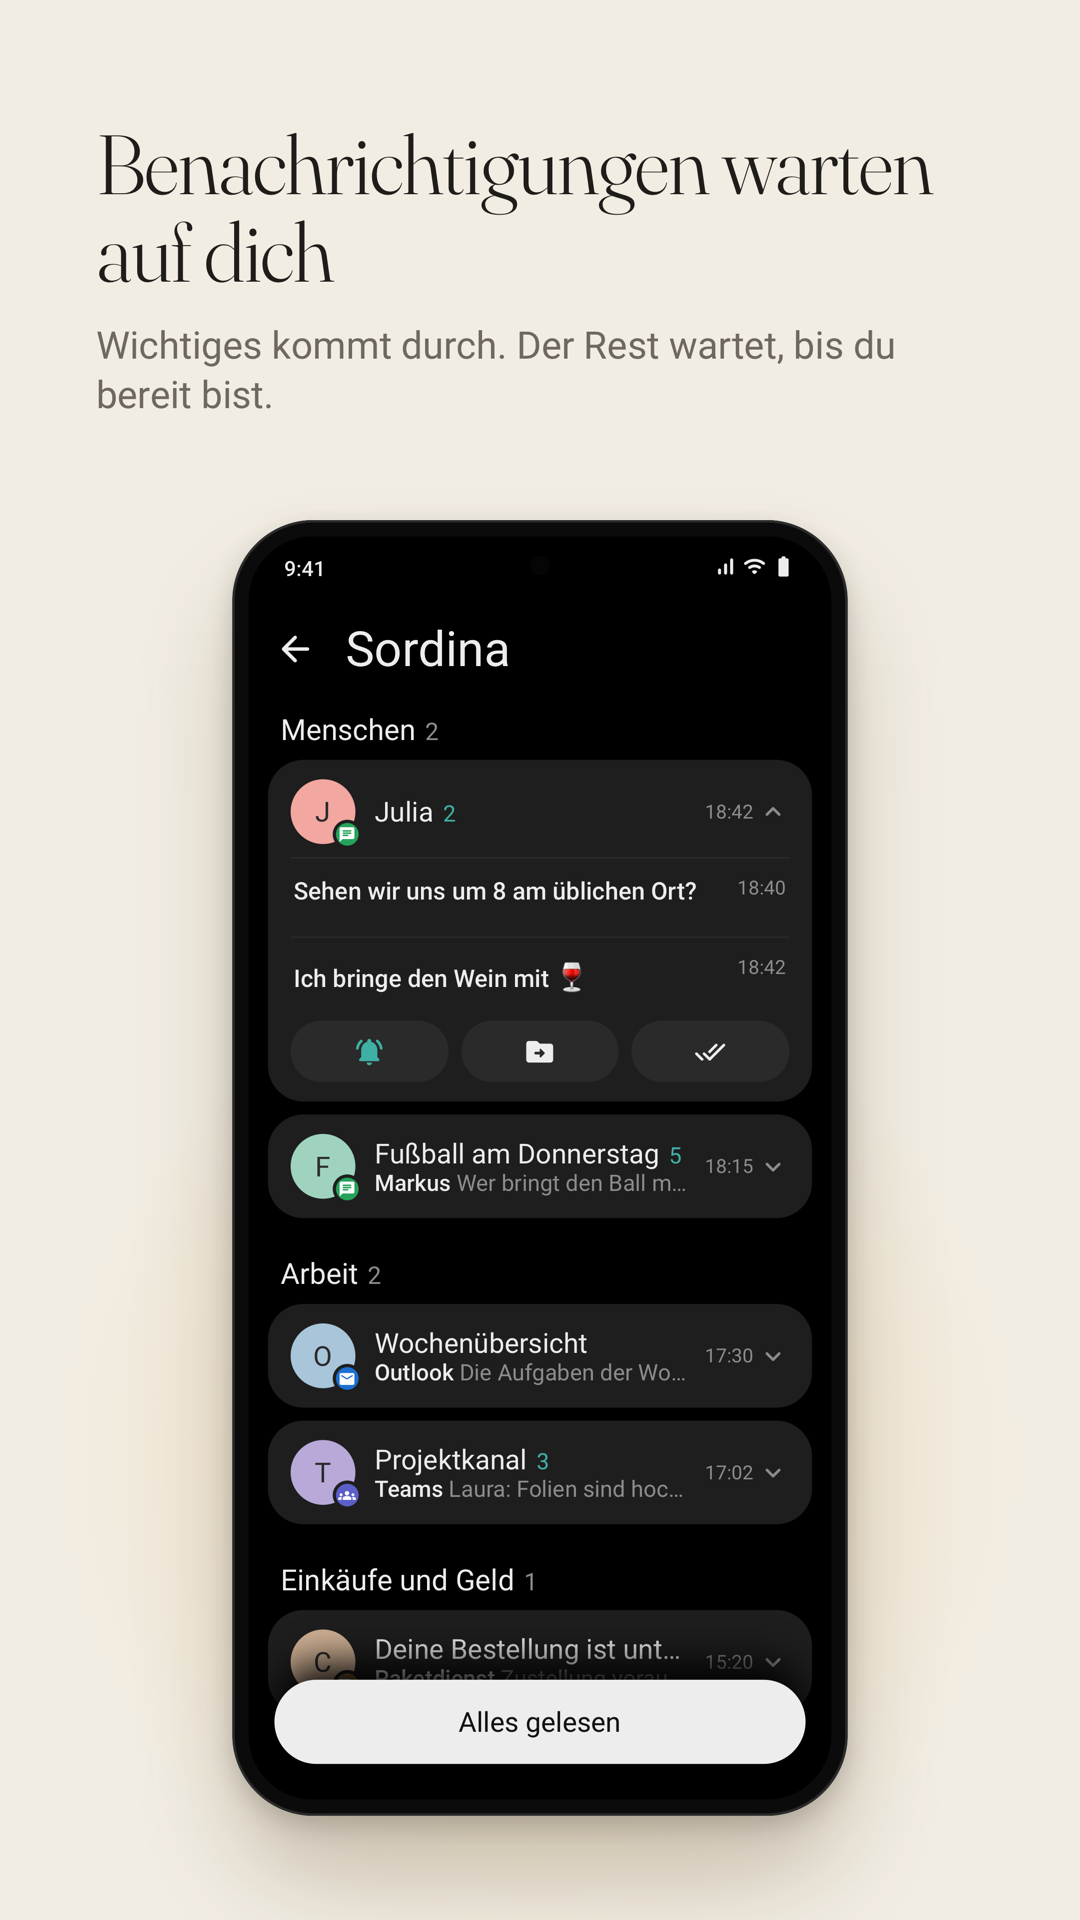
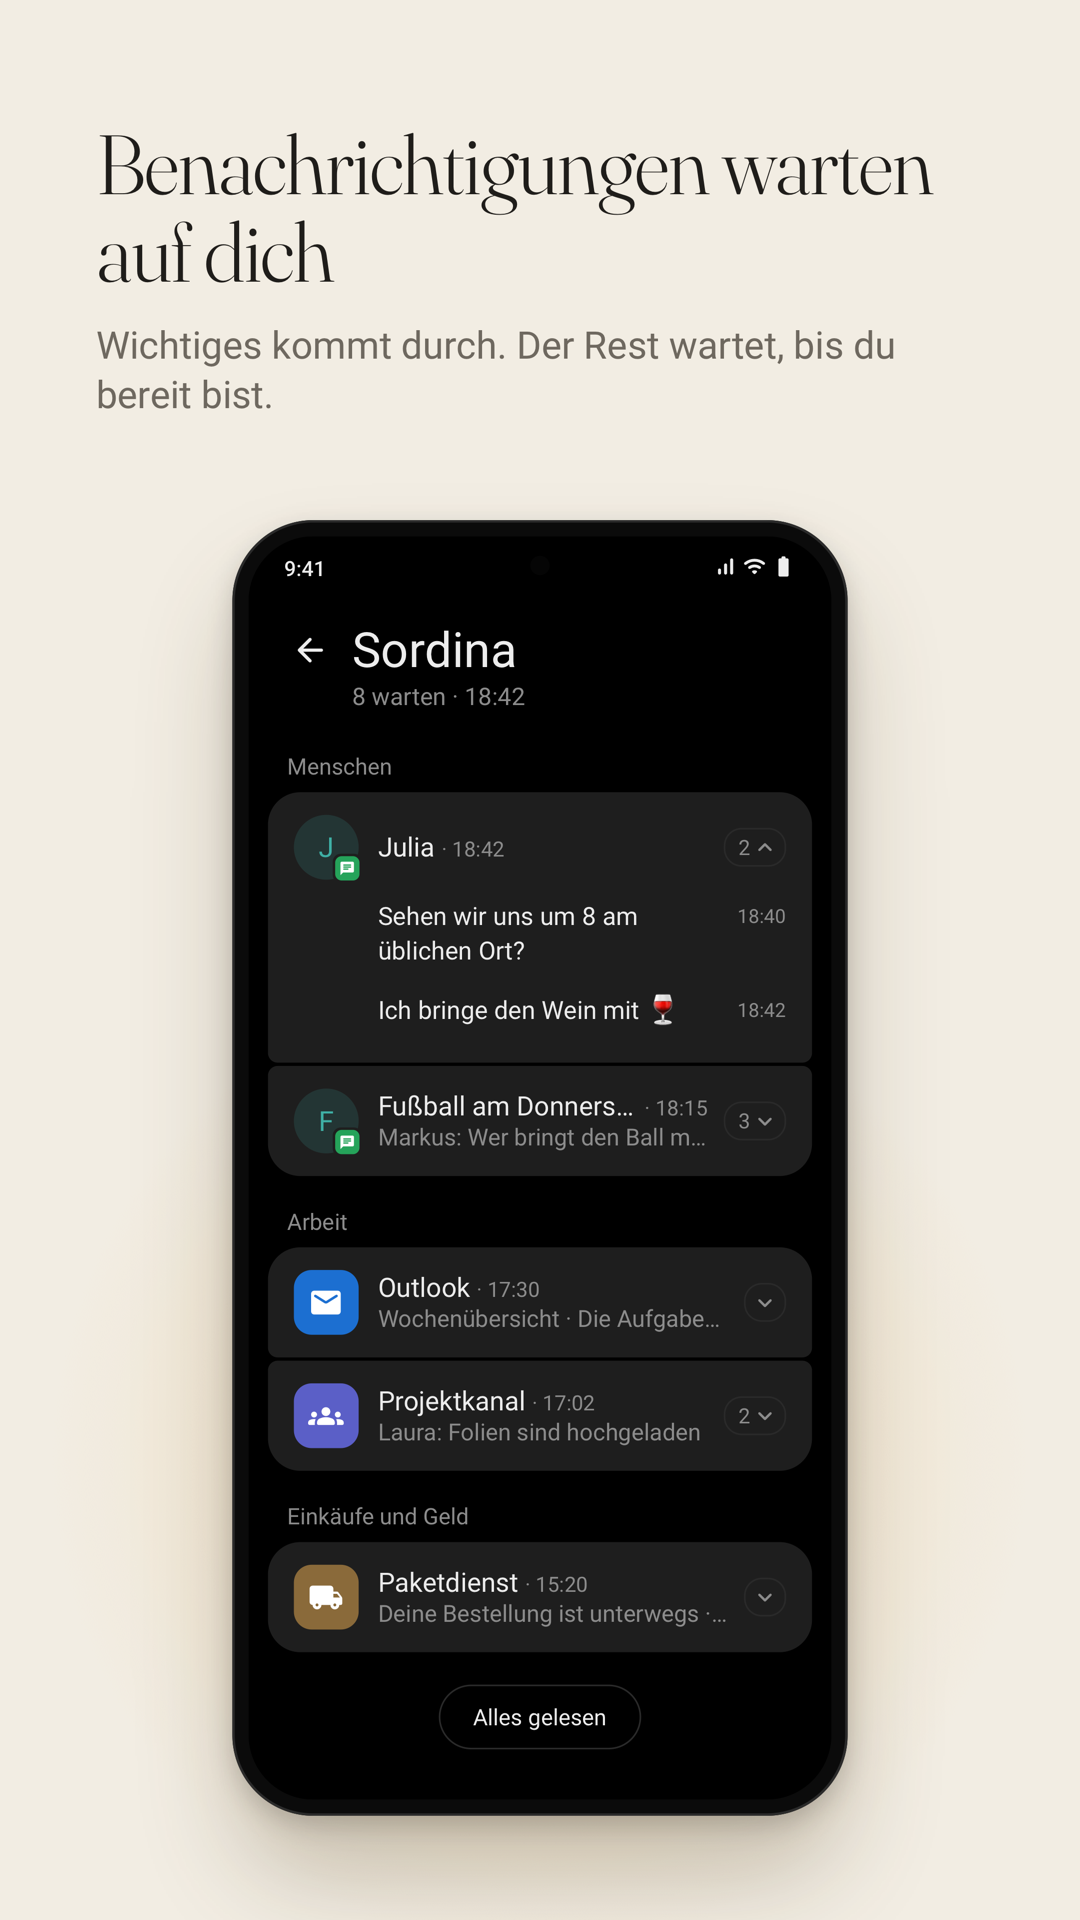
Pagina Sordina negli screenshot come nell'app; README senza la parte sulla firma
- Screenshot 2 (tutte le lingue): testata "Sordina" con "N in attesa · ora",
  categorie piccole, gruppi impilati e chiusi con il chip del numero,
  iniziale con l'icona dell'app, "Tutto letto" col bordo
- README: tolta la sezione sulla chiave di caricamento e la pubblicazione

Changed region(s): [[0.2444, 0.3125, 0.7639, 0.9375], [0.6722, 0.5, 0.7333, 0.5312], [0.5806, 0.5, 0.6417, 0.5312]]

diff --git a/store/src/store.html b/store/src/store.html
@@ -97,6 +97,35 @@
   .acts { display: flex; gap: 8px; margin-top: 4px; }
   .acts div { flex: 1; height: 38px; border-radius: 19px; background: var(--line); display: flex; align-items: center; justify-content: center; }
   .acts .mi { font-size: 20px; }
+  /* La pagina Sordina com'è nell'app: testata grande, categorie piccole, gruppi impilati e chiusi, il chip col numero */
+  .sphead { display: flex; align-items: flex-start; padding: 14px 16px 8px; }
+  .sphead .back { width: 44px; height: 44px; display: flex; align-items: center; justify-content: center; margin-right: 4px; }
+  .sphead .back .mi { font-size: 24px; }
+  .sphead h2 { font-size: 30px; line-height: 36px; font-weight: 400; margin: 4px 0 0; }
+  .sphead p { font-size: 15px; color: var(--usoft); margin: 2px 0 0; }
+  .spsec { font-size: 14px; color: var(--usoft); padding: 18px 24px 8px; }
+  .spg { margin: 0 12px 2px; background: var(--card); border-radius: 6px; padding: 14px 16px; }
+  .spg.top { border-top-left-radius: 20px; border-top-right-radius: 20px; }
+  .spg.bot { border-bottom-left-radius: 20px; border-bottom-right-radius: 20px; }
+  .sprow { display: flex; align-items: center; }
+  .spav { width: 40px; height: 40px; border-radius: 20px; flex: none; position: relative; display: flex; align-items: center; justify-content: center; font-size: 17px;
+          background: color-mix(in srgb, var(--uacc) 16%, transparent); color: var(--uacc); }
+  .spav.app { border-radius: 11px; color: #fff; }
+  .spav.app .mi { font-size: 22px; }
+  .spav small { position: absolute; right: -2px; bottom: -2px; width: 18px; height: 18px; border-radius: 5px; background: var(--card); padding: 1.5px; box-sizing: border-box; }
+  .spav small span { display: flex; width: 100%; height: 100%; border-radius: 4px; align-items: center; justify-content: center; }
+  .spav small .mi { font-size: 10px; color: #fff; }
+  .spcol { flex: 1; min-width: 0; margin-left: 12px; }
+  .spt { font-size: 16.5px; display: flex; align-items: baseline; white-space: nowrap; }
+  .spt span { overflow: hidden; text-overflow: ellipsis; min-width: 0; }
+  .spt i { font-style: normal; font-size: 13px; color: var(--usoft); flex: none; margin-left: 4px; }
+  .spp { font-size: 14.5px; color: var(--usoft); white-space: nowrap; overflow: hidden; text-overflow: ellipsis; margin-top: 1px; }
+  .spchip { margin-left: 10px; border: 1px solid var(--line); border-radius: 11px; padding: 2px 3px 2px 8px; display: flex; align-items: center; color: var(--usoft); font-size: 13px; }
+  .spchip.one { padding-left: 3px; }
+  .spchip .mi { font-size: 18px; }
+  .spmsg { padding: 8px 0 8px 52px; display: flex; font-size: 15.5px; line-height: 21px; }
+  .spmsg i { margin-left: auto; padding-left: 10px; font-style: normal; font-size: 12px; color: var(--usoft); }
+  .spall { margin: 18px auto 0; height: 40px; border-radius: 20px; border: 1px solid var(--line); padding: 0 20px; display: flex; align-items: center; justify-content: center; font-size: 14px; width: max-content; }
   .readall { position: absolute; left: 16px; right: 16px; bottom: 22px; height: 52px; border-radius: 26px; background: #EDEDED; color: #121212;
              display: flex; align-items: center; justify-content: center; font-size: 17px; box-shadow: 0 -10px 30px #000; }
 
@@ -177,6 +206,7 @@
 <script>
 const T = {
   it: {
+    waiting: '8 in attesa',
     day: 'Lunedì', date: '16 novembre', weather: '8° sereno', today: 'Oggi', tomorrow: 'Domani',
     ev1: 'Riunione di progetto', ev2: 'Pranzo con Giulia', ev3: 'Dentista',
     search: 'Cosa ti serve?', inMin: 'Tra 5 min', calendar: 'Calendario',
@@ -202,6 +232,7 @@ const T = {
     fSay: 'Niente di urgente fino alle&nbsp;13', fSmall: 'Sordina', fTag: 'Il telefono che non ti interrompe.',
   },
   en: {
+    waiting: '8 waiting',
     day: 'Monday', date: 'November 16', weather: '46° clear', today: 'Today', tomorrow: 'Tomorrow',
     ev1: 'Project meeting', ev2: 'Lunch with Julia', ev3: 'Dentist',
     search: 'What do you need to do?', inMin: 'In 5 min', calendar: 'Calendar',
@@ -227,6 +258,7 @@ const T = {
     fSay: 'Nothing urgent until 1&nbsp;PM', fSmall: 'Sordina', fTag: "The phone that doesn't interrupt you.",
   },
   es: {
+    waiting: '8 en espera',
     day: 'Lunes', date: '16 de noviembre', weather: '8° despejado', today: 'Hoy', tomorrow: 'Mañana',
     ev1: 'Reunión de proyecto', ev2: 'Comida con Julia', ev3: 'Dentista',
     search: '¿Qué necesitas?', inMin: 'En 5 min', calendar: 'Calendario',
@@ -252,6 +284,7 @@ const T = {
     fSay: 'Nada urgente hasta las&nbsp;13', fSmall: 'Sordina', fTag: 'El móvil que no te interrumpe.',
   },
   fr: {
+    waiting: '8 en attente',
     day: 'Lundi', date: '16 novembre', weather: '8° dégagé', today: "Aujourd'hui", tomorrow: 'Demain',
     ev1: 'Réunion de projet', ev2: 'Déjeuner avec Julie', ev3: 'Dentiste',
     search: "De quoi avez-vous besoin ?", inMin: 'Dans 5 min', calendar: 'Agenda',
@@ -277,6 +310,7 @@ const T = {
     fSay: "Rien d'urgent avant&nbsp;13&nbsp;h", fSmall: 'Sordina', fTag: 'Le téléphone qui ne vous interrompt pas.',
   },
   de: {
+    waiting: '8 warten',
     day: 'Montag', date: '16. November', weather: '8° klar', today: 'Heute', tomorrow: 'Morgen',
     ev1: 'Projektbesprechung', ev2: 'Mittagessen mit Julia', ev3: 'Zahnarzt',
     search: 'Was brauchst du?', inMin: 'In 5 Min.', calendar: 'Kalender',
@@ -302,6 +336,7 @@ const T = {
     fSay: 'Nichts Dringendes bis 13&nbsp;Uhr', fSmall: 'Sordina', fTag: 'Das Handy, das dich nicht unterbricht.',
   },
   pt: {
+    waiting: '8 à espera',
     day: 'Segunda-feira', date: '16 de novembro', weather: '8° céu limpo', today: 'Hoje', tomorrow: 'Amanhã',
     ev1: 'Reunião do projeto', ev2: 'Almoço com a Júlia', ev3: 'Dentista',
     search: 'Do que você precisa?', inMin: 'Em 5 min', calendar: 'Agenda',
@@ -376,24 +411,25 @@ function shot(lang, n) {
       <div class="zone">${mascot(3)}<div class="bubble"><div class="col">${sig('#1C6FD1', 'event', t.calendar + ' · 1/3')}<div class="ttl">${t.ev1}</div><div class="sub">${t.inMin}</div></div>
       <div class="round">${mi('videocam')}</div></div></div>`);
   } else if (n === 2) {
-    const blk = (init, col, appCol, appIc, title, cnt, who, prev, time) => `<div class="block"><div class="brow">
-      <div class="av" style="background:${col}">${init}<small style="background:${appCol}">${mi(appIc)}</small></div>
-      <div class="bcol"><div class="bt">${title}${cnt ? `<b>${cnt}</b>` : ''}</div><div class="bp">${who ? `<b>${who}</b> ` : ''}${prev}</div></div>
-      <span class="btime">${time}</span>${mi('keyboard_arrow_down', 'font-size:20px;color:var(--usoft);margin-left:2px')}</div></div>`;
-    inner = phone('dark', `<div class="pagehead">${mi('arrow_back')}${t.sordina}</div>
-      <div class="sec">${t.people}<span>2</span></div>
-      <div class="block"><div class="brow"><div class="av" style="background:${FACE[3]}">${t.p1[0]}<small style="background:#25A35A">${mi('chat')}</small></div>
-        <div class="bcol"><div class="bt">${t.p1}<b>2</b></div></div><span class="btime">18:42</span>${mi('keyboard_arrow_up', 'font-size:20px;color:var(--usoft);margin-left:2px')}</div>
-        <div class="msg"><div class="h">${t.p1m}<i>18:40</i></div></div>
-        <div class="msg"><div class="h">${t.p1m2}<i>18:42</i></div></div>
-        <div class="acts"><div>${mi('notifications_active', 'color:var(--uacc)')}</div><div>${mi('drive_file_move')}</div><div>${mi('done_all')}</div></div></div>
-      ${blk(t.p2[0], FACE[1], '#25A35A', 'chat', t.p2, 5, t.p2s, t.p2m, '18:15')}
-      <div class="sec">${t.work}<span>2</span></div>
-      ${blk('O', '#A8C5DA', '#1C6FD1', 'mail', t.w1, 0, t.w1s, t.w1m, '17:30')}
-      ${blk('T', '#B8A9D9', '#5B5FC7', 'groups', t.w2, 3, t.w2s, t.w2m, '17:02')}
-      <div class="sec">${t.shop}<span>1</span></div>
-      ${blk('C', '#CFB194', '#8A6A3A', 'local_shipping', t.s1, 0, t.s1s, t.s1m, '15:20')}
-      <div class="readall">${t.readAll}</div>`);
+    // Gruppi chiusi come nell'app; Giulia aperta per far vedere i messaggi
+    const av = (init, appCol, appIc) => `<div class="spav">${init}<small><span style="background:${appCol}">${mi(appIc)}</span></small></div>`;
+    const avApp = (col, ic) => `<div class="spav app" style="background:${col}">${mi(ic)}</div>`;
+    const chip = (n, up) => `<div class="spchip${n > 1 ? '' : ' one'}">${n > 1 ? n : ''}${mi(up ? 'keyboard_arrow_up' : 'keyboard_arrow_down')}</div>`;
+    const grp = (cls, avatar, title, time, prev, n) => `<div class="spg ${cls}"><div class="sprow">${avatar}
+      <div class="spcol"><div class="spt"><span>${title}</span><i>· ${time}</i></div><div class="spp">${prev}</div></div>${chip(n, false)}</div></div>`;
+    inner = phone('dark', `<div class="sphead"><div class="back">${mi('arrow_back')}</div><div><h2>${t.sordina}</h2><p>${t.waiting} · 18:42</p></div></div>
+      <div class="spsec">${t.people}</div>
+      <div class="spg top"><div class="sprow">${av(t.p1[0], '#25A35A', 'chat')}
+        <div class="spcol"><div class="spt"><span>${t.p1}</span><i>· 18:42</i></div></div>${chip(2, true)}</div>
+        <div class="spmsg" style="padding-top:12px">${t.p1m}<i>18:40</i></div>
+        <div class="spmsg">${t.p1m2}<i>18:42</i></div></div>
+      ${grp('bot', av(t.p2[0], '#25A35A', 'chat'), t.p2, '18:15', t.p2s + ': ' + t.p2m, 3)}
+      <div class="spsec">${t.work}</div>
+      ${grp('top', avApp('#1C6FD1', 'mail'), t.w1s, '17:30', t.w1 + ' · ' + t.w1m, 1)}
+      ${grp('bot', avApp('#5B5FC7', 'groups'), t.w2, '17:02', t.w2m, 2)}
+      <div class="spsec">${t.shop}</div>
+      ${grp('top bot', avApp('#8A6A3A', 'local_shipping'), t.s1s, '15:20', t.s1 + ' · ' + t.s1m, 1)}
+      <div class="spall">${t.readAll}</div>`);
   } else if (n === 3) {
     inner = phone('dark', `${homeTop(t)}<div class="grow"></div>${searchBar(t)}
       <div class="zone">${mascot(2)}<div class="bubble"><div class="col">${sig('#2E7D5B', 'account_balance', t.bank + ' · 1/2')}<div class="code">482 913</div>

diff --git a/README.md b/README.md
@@ -188,14 +188,6 @@ adb install -r app/build/outputs/apk/debug/app-debug.apk
 
 The debug build installs as `app.sordina.debug`, next to the release one (`app.sordina`).
 
-### Release
-
-The upload key is never stored: `signing/release.sh` derives it from a password (PBKDF2-HMAC-SHA256, 2²¹ rounds, then a deterministic RSA-3072 key), checks its fingerprint against [signing/upload-cert.sha256](signing/upload-cert.sha256) and builds the signed bundle. Google Play App Signing holds the app key.
-
-```bash
-signing/release.sh   # → app/build/outputs/bundle/release/app-release.aab
-```
-
 ## 🗂 Repository
 
 - `app/src/main/java/app/sordina/data`: Intents, rules, cards, calendar, people, weather, Home Assistant, the on-device learning (`brain/`); languages in `Lingue.kt` (it, en, es, fr, de, pt) and `LingueAltre.kt` (one data pack per other language)
@@ -205,7 +197,6 @@ signing/release.sh   # → app/build/outputs/bundle/release/app-release.aab
 - `app/src/test`: Unit tests (dates, commands in every language, rules, home safety, screen time…)
 - `docs/`: Concept and UX notes (Italian)
 - `store/`: Play Store texts (it, en, es, fr, de, pt), graphics (rendered from `store/src/store.html`), privacy policy, Play Console notes
-- `signing/`: Password-derived upload key
 
 ## 🤝 Contributing
 
